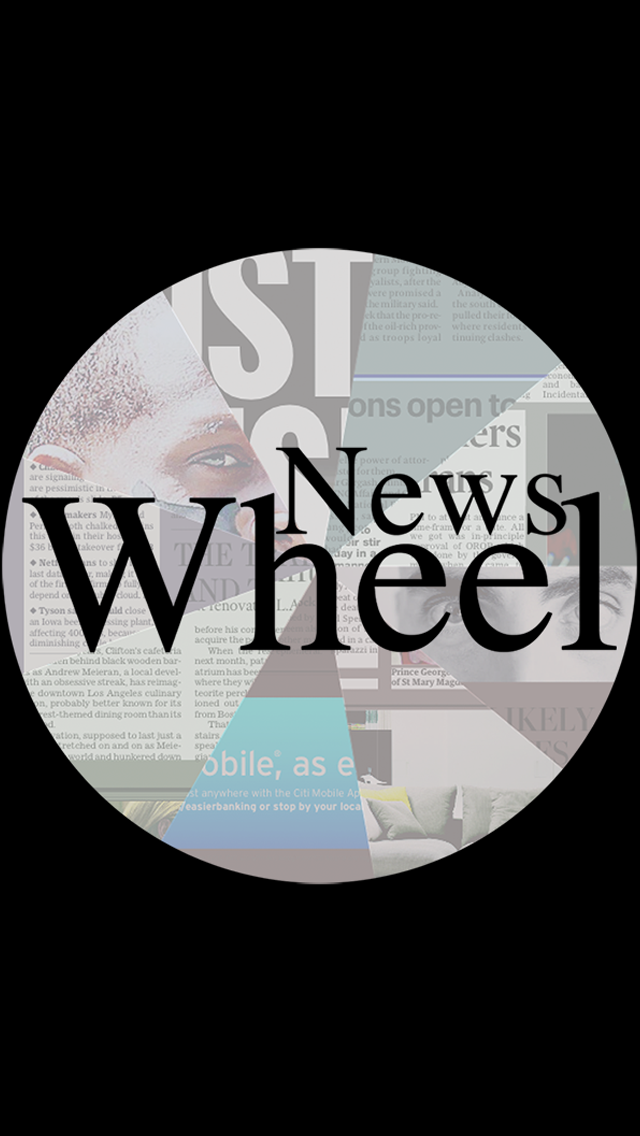
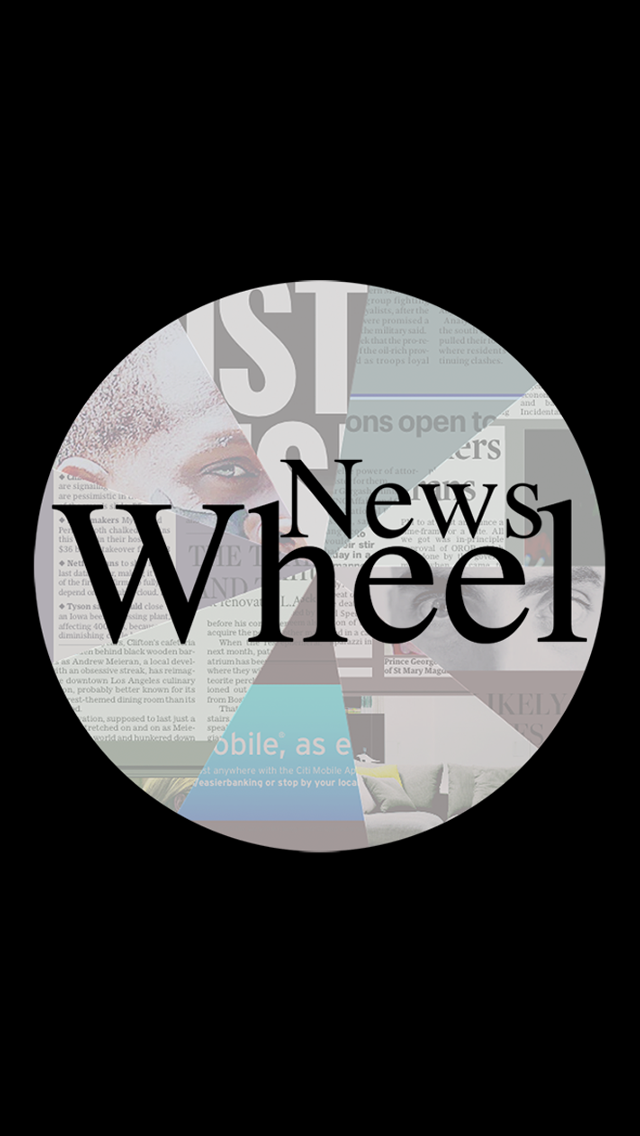
more changes to try to get launch images to work

Changed region(s): [[0.0, 0.2157, 1.0, 0.8011]]

diff --git a/jody/StartViewController.m b/jody/StartViewController.m
@@ -28,14 +28,36 @@
         NSLog(@"Problem.");
     }
     
-    //TODO: change font size depending on device
-    
     [[UIApplication sharedApplication] setStatusBarHidden:YES
                                             withAnimation:UIStatusBarAnimationFade];
     
     self.navigationController.navigationBarHidden=YES;
+    self.navigationController.toolbarHidden = YES;
     self.sourceManager = [SourceManager sharedManager];
     self.sourceManager.delegate = self;
+    
+    FontManager* fontManager = [FontManager sharedManager];
+    UIImage* startImage;
+    if (fontManager.device == IPHONE_4) {
+        startImage = [UIImage imageNamed:@"Default@2x~iphone.png"];
+    }
+    else if (fontManager.device == IPHONE_5) {
+        startImage = [UIImage imageNamed:@"Default-568@2x~iphone.png"];
+    }
+    else if (fontManager.device == IPHONE_6) {
+        startImage = [UIImage imageNamed:@"Default-667@2x~iphone.png"];
+    }
+    else if (fontManager.device == IPHONE_6_PLUS) {
+        startImage = [UIImage imageNamed:@"Default-736@3x~iphone.png"];
+    }
+    else if (fontManager.device == IPAD) {
+        startImage = [UIImage imageNamed:@"Default-Portrait@2x~ipad"];
+    }
+    else {
+        // add case for mini
+    }
+    //[self.imageView setImage:startImage];
+    
 }
 
 - (void)viewDidAppear:(BOOL)animated

diff --git a/jody/constants.h b/jody/constants.h
@@ -11,12 +11,13 @@
 
 
 enum {
-    UNKNOWN = 0,
+    IPHONE_4 = 0,
     IPHONE_5 = 1,
     IPHONE_6 = 2,
     IPHONE_6_PLUS = 3,
     IPAD = 4,
-    IPAD_MINI = 5
+    IPAD_MINI = 5,
+    UNKNOWN= 6
 };
 
 
@@ -37,11 +38,11 @@ FOUNDATION_EXPORT int const kPDFWidth;
 FOUNDATION_EXPORT int const kPDFHeight;
 FOUNDATION_EXPORT float const basicColors[9][3];
 FOUNDATION_EXPORT NSString* const kFontName;
-FOUNDATION_EXPORT int const kHeadlineFontSize[6];
-FOUNDATION_EXPORT int const kChainFontSize[6];
-FOUNDATION_EXPORT int const kStartScreenSmallFontSize[6];
-FOUNDATION_EXPORT int const kStartScreenLargeFontSize[6];
-FOUNDATION_EXPORT int const kInfoScreenFontSize[6];
-FOUNDATION_EXPORT int const kToolBarFontSize[6];
+FOUNDATION_EXPORT int const kHeadlineFontSize[7];
+FOUNDATION_EXPORT int const kChainFontSize[7];
+FOUNDATION_EXPORT int const kStartScreenSmallFontSize[7];
+FOUNDATION_EXPORT int const kStartScreenLargeFontSize[7];
+FOUNDATION_EXPORT int const kInfoScreenFontSize[7];
+FOUNDATION_EXPORT int const kToolBarFontSize[7];
 
 #endif

diff --git a/jody/constants.m b/jody/constants.m
@@ -25,12 +25,12 @@ float const basicColors[9][3]={
     {.71,.69,.66},
 };
 NSString* const kFontName=@"TimesNewRomanPSMT";
-int const kHeadlineFontSize[6]={56,56,56,72,72,96};
-int const kChainFontSize[6] = {20,20,20,28,28,36};
-int const kStartScreenLargeFontSize[6]={56,56,56,72,72,96};
-int const kStartScreenSmallFontSize[6]={32,32,32,48,48,56};
-int const kInfoScreenFontSize[6]={10,10,12,14,18,18};
-int const kToolBarFontSize[6]={10,10,10,14,18,18};
+int const kHeadlineFontSize[7]={52,56,56,72,72,96,52};
+int const kChainFontSize[7] = {20,20,20,28,28,36,20};
+int const kStartScreenLargeFontSize[7]={52,56,56,72,72,96,52};
+int const kStartScreenSmallFontSize[7]={32,32,32,48,48,56,32};
+int const kInfoScreenFontSize[7]={10,10,12,14,18,18,10};
+int const kToolBarFontSize[7]={10,10,10,14,18,18,10};
 
 
     

diff --git a/jody/FontManager.m b/jody/FontManager.m
@@ -19,7 +19,7 @@
 
 @interface FontManager()
 
-@property int device;
+
 
 @end
 
@@ -50,6 +50,10 @@
             }
         }
         else {
+            if (SCREEN_MAX_LENGTH == 480)
+            {
+                self.device = IPHONE_4;
+            }
             if (SCREEN_MAX_LENGTH == 568.0) {
                 self.device = IPHONE_5;
             }
@@ -58,6 +62,9 @@
             }
             else if (SCREEN_MAX_LENGTH == 736.0) {
                 self.device = IPHONE_6_PLUS;
+            }
+            else {
+                NSLog(@"size %f", SCREEN_MAX_LENGTH);
             }
         }
         self.headlineFontSize = kHeadlineFontSize[self.device];

diff --git a/jody/MainViewController.m b/jody/MainViewController.m
@@ -76,7 +76,7 @@ enum {
         colorWheelFrameSize +=-1;
     }
     CGFloat leftX= (myFrame.size.width - colorWheelFrameSize)/2.0;
-    CGFloat topY = (myFrame.size.height-self.navigationController.toolbar.frame.size.height-colorWheelFrameSize)/2.0;
+    CGFloat topY = (myFrame.size.height-colorWheelFrameSize)/2.0;
     CGRect colorWheelFrame = CGRectMake(leftX, topY, colorWheelFrameSize, colorWheelFrameSize);
     
     // create background view

diff --git a/jody/StartViewController.h b/jody/StartViewController.h
@@ -11,6 +11,6 @@
 
 @interface StartViewController : UIViewController <SourceDelegate>
 
-//@property (weak,nonatomic) IBOutlet UILabel* titleLabel;
+@property (weak,nonatomic) IBOutlet UIImageView* imageView;
 
 @end

diff --git a/jody/FontManager.h b/jody/FontManager.h
@@ -16,6 +16,7 @@
 @property int startScreenLargeFontSize;
 @property int infoScreenFontSize;
 @property int toolBarFontSize;
+@property int device;
 
 + (id)sharedManager;
 
